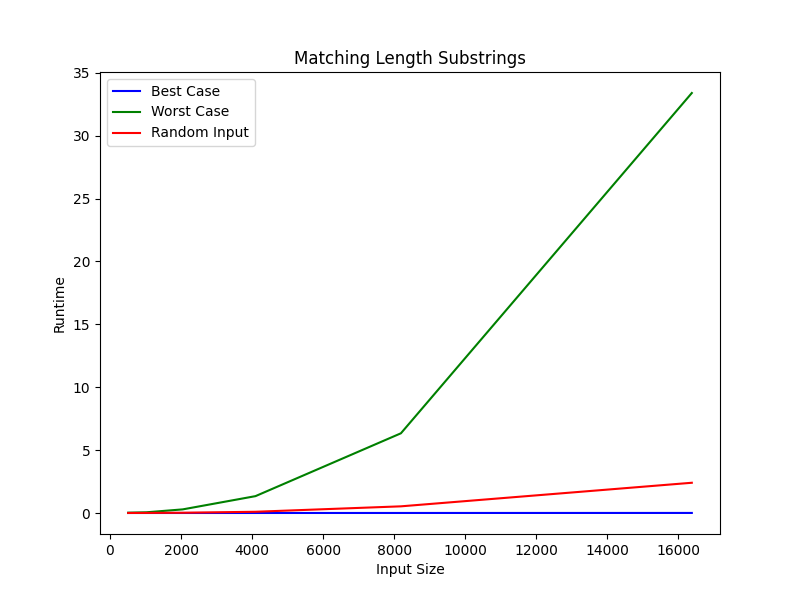
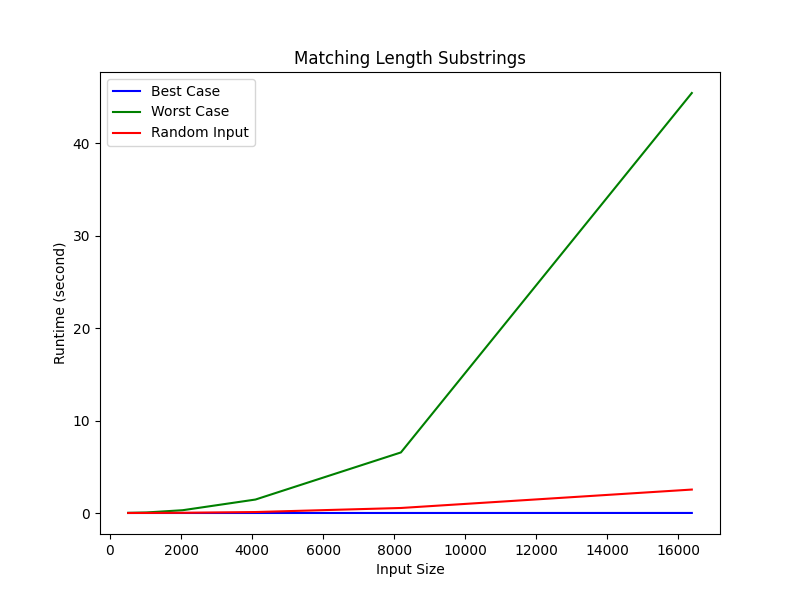
finish q3

diff --git a/hw5/eqsubstr.py b/hw5/eqsubstr.py
@@ -26,7 +26,6 @@
 import time
 import random
 import matplotlib.pyplot as plt
-from numpy import size
 import pandas as pd
 def matching_length_sub_strs(s, c1, c2):
     # WRITE ME
@@ -186,7 +185,7 @@ def main():
     plt.plot(sizeArr, time[1], label='Worst Case', color='green')
     plt.plot(sizeArr, time[2], label='Random Input', color='red')
     plt.xlabel('Input Size')
-    plt.ylabel('Runtime')
+    plt.ylabel('Runtime (second)')
     plt.title('Matching Length Substrings')
     plt.legend()
 
@@ -197,9 +196,9 @@ def main():
     fig, ax =plt.subplots(1, 1)
 
     table = pd.DataFrame()
-    table['Best Case'] = time[0]
-    table['Worst Case'] = time[1]
-    table['Random Input'] = time[2]
+    table['Best Case(s)'] = time[0]
+    table['Worst Case(s)'] = time[1]
+    table['Random Input(s)'] = time[2]
     table.index = rowname # type: ignore
     ax.axis('tight')
     ax.axis('off')
